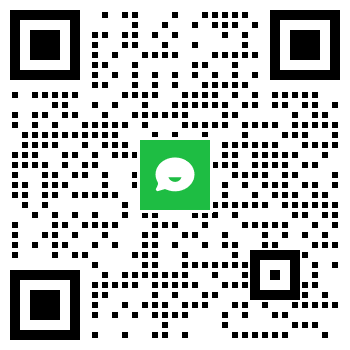
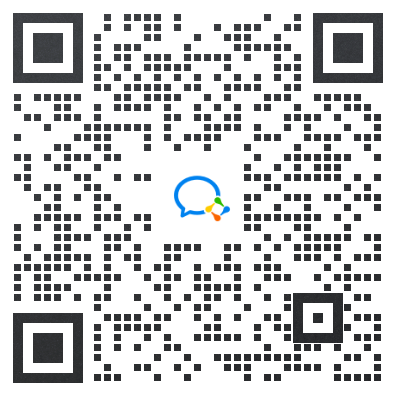
[DOCS]update weixin group image
**Phenomenon and reproduction steps**

update weixin group image

**Root cause and solution**

**Impactions**

**Test method**

**Affected branch(es)**

* main

**Checklist**

- [ ] Dependencies update required
- [ ] Common bug (similar problem in other repo)

diff --git a/README.md b/README.md
@@ -57,7 +57,7 @@ Here is our [future feature plan](https://deepflow.yunshan.net/docs/about/milest
 
 Join the WeChat group，you can communicate with other users (in Chinese):
 
-![WeChat Group](./docs/wechat-group-keeper.png)
+<img src=./docs/wechat-group-keeper.png width=30% />
 
 # Acknowledgments
 
